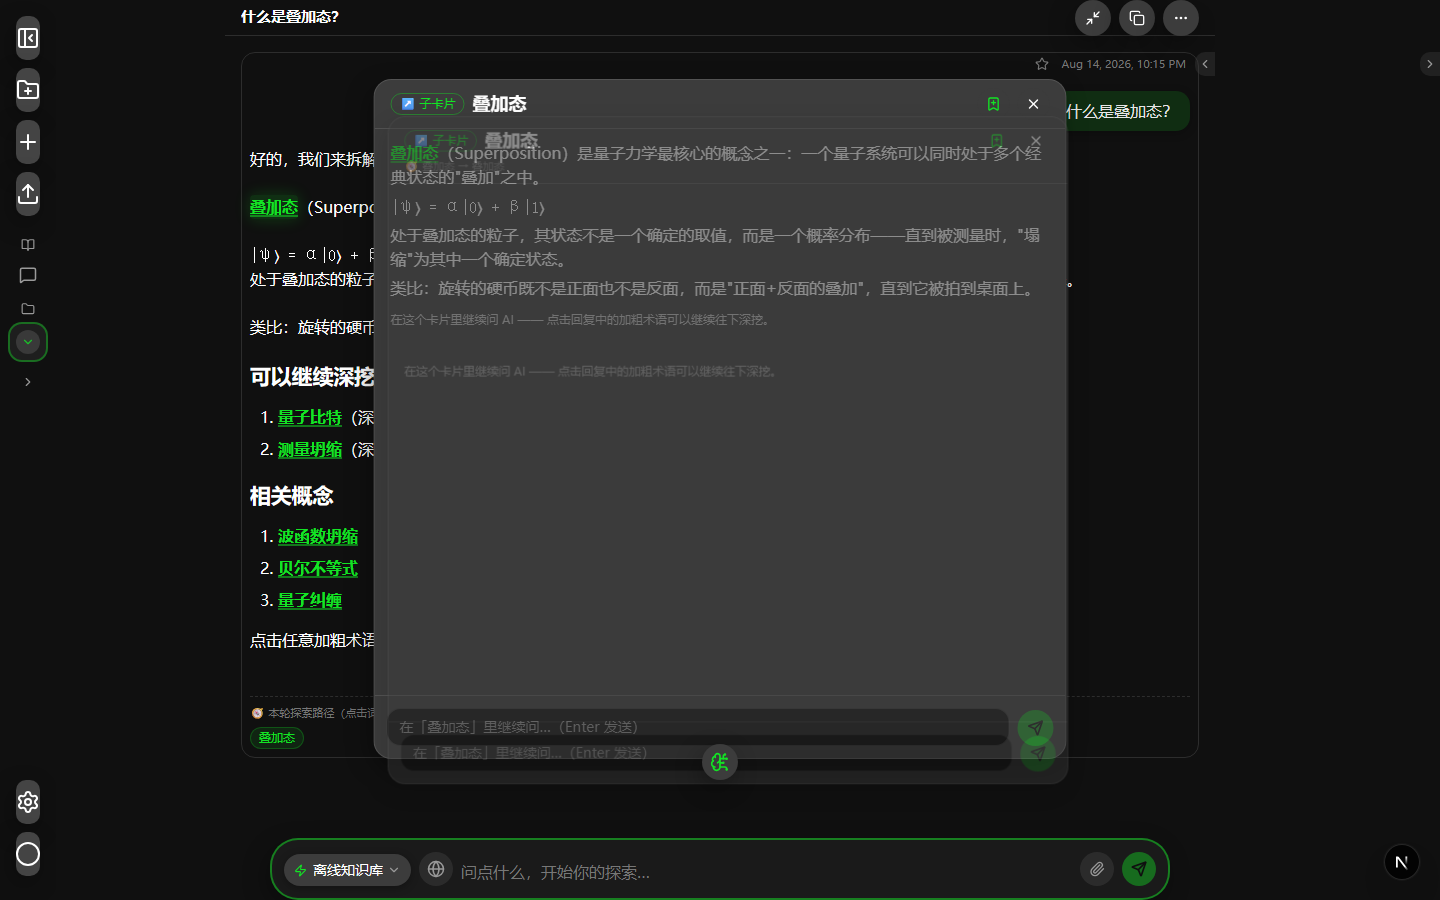
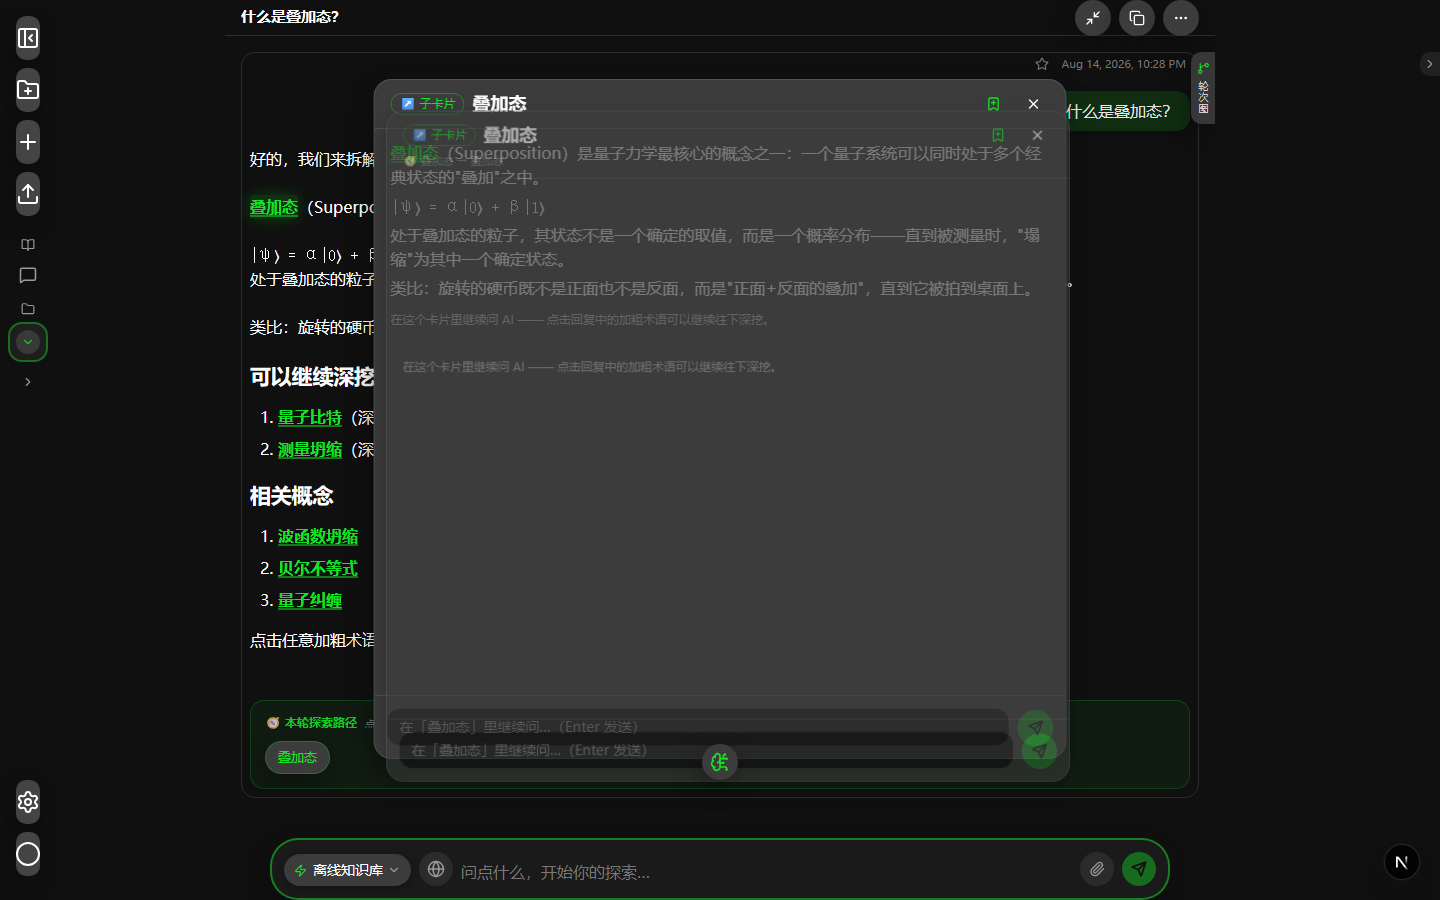
轮次导航升级为有向图（分支边+跳转+右键）、收藏区常驻可见、探索路径放大为独立卡片块

diff --git a/src/components/sites/ai-explore-poker-820d0558/chat-card.tsx b/src/components/sites/ai-explore-poker-820d0558/chat-card.tsx
@@ -11,6 +11,7 @@ import {
   BookmarkPlus,
   ChevronLeft,
   Copy,
+  GitBranch,
   HelpCircle,
   Loader2,
   Maximize2,
@@ -22,6 +23,7 @@ import {
   X,
 } from "lucide-react";
 import { useApp, streamOpenAICompatible } from "./app-context";
+import { TurnGraph } from "./turn-graph";
 import { findTerm, generateReply, GLOSSARY } from "@/lib/sites/ai-explore-poker-820d0558/mock";
 import type { Message, TermNode } from "@/types/sites/ai-explore-poker-820d0558";
 
@@ -646,7 +648,7 @@ export function ChatCard() {
         history.push({ role: m.role, content: m.content });
       }
     }
-    openBranchTurn(item.node.term, history.slice(-16));
+    openBranchTurn(item.node.term, history.slice(-16), item.sourceTurnId);
     setTermStack([]);
   };
 
@@ -929,23 +931,29 @@ export function ChatCard() {
 
                     {/* 本轮探索路径：点开的术语卡片按链条展示（被它们"分割"出深挖脉络） */}
                     {turn.explored && turn.explored.length > 0 && (
-                      <div className="explore-trail mt-1 flex flex-col gap-1.5 border-t border-dashed border-divider pt-2">
-                        <span className="text-[11px] text-text-quaternary select-none">
-                          🧭 本轮探索路径（点击词条可重新打开）
-                        </span>
+                      <div className="explore-trail mt-2 flex flex-col gap-2.5 rounded-xl border border-brand/20 bg-brand/[0.05] p-3.5">
+                        <div className="flex items-baseline gap-2">
+                          <span className="text-xs font-semibold text-brand/90 select-none">
+                            🧭 本轮探索路径
+                          </span>
+                          <span className="text-[10px] text-text-quaternary select-none">
+                            点击词条可重新打开卡片
+                          </span>
+                        </div>
                         {explorationChains(turn.explored).map((chain, ci) => (
-                          <div key={ci} className="flex flex-wrap items-center gap-x-1 gap-y-1.5">
+                          <div key={ci} className="flex flex-wrap items-center gap-x-2 gap-y-2">
                             {chain.map((e, ei) => (
                               <Fragment key={e.term}>
                                 {ei > 0 && (
-                                  <span className="select-none text-xs text-text-quaternary">→</span>
+                                  <span className="select-none text-sm text-text-tertiary">→</span>
                                 )}
                                 <button
                                   type="button"
                                   onClick={() => reopenFromTrail(e.term, turn.id)}
-                                  className="explore-chip inline-flex cursor-pointer items-center gap-1 rounded-full border border-brand/25 bg-brand/10 px-2 py-0.5 text-xs text-brand transition-colors hover:bg-brand/20"
+                                  title={KIND_BADGE[e.kind]}
+                                  className="explore-chip inline-flex cursor-pointer items-center gap-1.5 rounded-full border border-brand/30 bg-card-floating px-3 py-1.5 text-[13px] text-brand shadow-card transition-all hover:bg-brand/15 hover:scale-[1.03]"
                                 >
-                                  {ei > 0 && <span className="text-[10px]">{KIND_ICON[e.kind]}</span>}
+                                  {ei > 0 && <span className="text-xs">{KIND_ICON[e.kind]}</span>}
                                   {e.term}
                                 </button>
                               </Fragment>
@@ -1026,62 +1034,49 @@ export function ChatCard() {
               </>
             )}
 
-            {/* ---------- right turn-navigation rail ---------- */}
+            {/* ---------- right turn-graph navigation rail ---------- */}
             {turns.length > 0 && (
-              <div className="hidden sm:flex absolute right-0 top-[52px] bottom-0 w-[20px] z-[15] flex-col items-end">
+              <div className="hidden sm:flex absolute right-0 top-[52px] bottom-0 w-[30px] z-[15] flex-col items-end">
                 <button
                   type="button"
-                  className="relative z-20 w-5 h-6 rounded-l-lg bg-btn-std/40 hover:bg-btn-std flex items-center justify-center transition-colors"
+                  className={`relative z-20 flex flex-col items-center justify-center gap-1.5 rounded-l-lg bg-btn-std/90 hover:bg-btn-std shadow-card transition-colors ${
+                    navOpen ? "w-6 h-9" : "w-6 py-2.5"
+                  }`}
                   title={navOpen ? "收起轮次导航" : "轮次导航"}
                   aria-label={navOpen ? "收起轮次导航" : "轮次导航"}
                   onClick={() => setNavOpen((v) => !v)}
                 >
-                  <ChevronLeft
-                    size={14}
-                    className={`text-text-tertiary transition-transform duration-300 ${
-                      navOpen ? "rotate-180" : ""
-                    }`}
-                  />
+                  {navOpen ? (
+                    <ChevronLeft size={14} className="rotate-180 text-text-tertiary transition-transform" />
+                  ) : (
+                    <>
+                      <GitBranch size={13} className="text-brand" />
+                      <span className="select-none text-[10px] leading-none tracking-widest text-text-secondary [writing-mode:vertical-rl]">
+                        轮次图
+                      </span>
+                    </>
+                  )}
                 </button>
 
                 {navOpen && (
-                  <div className="absolute right-0 top-0 bottom-0 w-[240px] bg-card-floating border-l border-divider z-[10] flex flex-col">
-                    <div className="px-4 py-3 border-b border-divider">
-                      <span className="text-[12px] text-text-tertiary">轮次导航</span>
-                      <span className="block text-[10px] text-text-quaternary mt-0.5">
-                        点击跳转 · 右键切换已读/未读
+                  <div className="absolute right-0 top-0 bottom-0 w-[300px] bg-card-floating border-l border-divider z-[10] flex flex-col">
+                    <div className="px-4 py-3 border-b border-divider shrink-0">
+                      <div className="flex items-center gap-2">
+                        <GitBranch size={13} className="text-brand shrink-0" />
+                        <span className="text-[12px] text-text-tertiary">轮次导航图</span>
+                      </div>
+                      <span className="block text-[10px] text-text-quaternary mt-1">
+                        有向图 · 点击节点跳转 · 右键切换已读/未读
                       </span>
                     </div>
-                    <div className="flex-1 overflow-y-auto nav-scroll p-2 flex flex-col gap-1">
-                      {turns.map((turn) => (
-                        <button
-                          key={turn.id}
-                          type="button"
-                          className="text-left px-3 py-2 rounded-lg text-[13px] text-text-secondary hover:bg-item-std-hover bg-item-std transition-colors"
-                          onClick={() => jumpToTurn(turn.id)}
-                          onContextMenu={(e) => {
-                            e.preventDefault();
-                            setTurnUnread(turn.id, !turn.unread);
-                          }}
-                        >
-                          <span className="flex items-center gap-1.5 min-w-0">
-                            {turn.unread && (
-                              <span
-                                className="w-2 h-2 rounded-full bg-brand shrink-0 shadow-brandtw"
-                                aria-label="未读"
-                              />
-                            )}
-                            <span className="flex-1 min-w-0 truncate">{turn.title}</span>
-                            {turn.favorite && (
-                              <Star size={11} className="text-brand shrink-0" fill="currentColor" />
-                            )}
-                          </span>
-                          <span className="block text-[11px] text-text-quaternary mt-0.5">
-                            {fmtTs(turn.createdAt)}
-                          </span>
-                        </button>
-                      ))}
-                    </div>
+                    <TurnGraph
+                      turns={turns}
+                      onJump={jumpToTurn}
+                      onToggleUnread={(id) => {
+                        const t = turns.find((x) => x.id === id);
+                        if (t) setTurnUnread(id, !t.unread);
+                      }}
+                    />
                   </div>
                 )}
               </div>

diff --git a/src/components/sites/ai-explore-poker-820d0558/turn-graph.tsx b/src/components/sites/ai-explore-poker-820d0558/turn-graph.tsx
@@ -1,0 +1,141 @@
+"use client";
+
+/**
+ * Explore — TurnGraph（轮次导航有向图）
+ * 每个项目里的对话在右侧导航图中呈现为有向图：
+ *  - 行 = 轮次时间序；列 = 分支深度（父链长度）；
+ *  - 边 = parentTurnId（分支来源）?? 顺序上一轮 → 有向箭头；
+ *  - 点击节点跳转到对应轮次；右键切换已读/未读；绿点 = 未读，⭐ = 已收藏。
+ */
+import { useMemo } from "react";
+import type { Turn } from "@/types/sites/ai-explore-poker-820d0558";
+
+interface TurnGraphProps {
+  turns: Turn[];
+  onJump(id: string): void;
+  onToggleUnread(id: string): void;
+}
+
+const ROW_H = 58;
+const X_BASE = 36;
+const X_STEP = 56;
+
+export function TurnGraph({ turns, onJump, onToggleUnread }: TurnGraphProps) {
+  const { nodes, edges, height, width } = useMemo(() => {
+    const byId = new Map(turns.map((t) => [t.id, t]));
+    const depthCache = new Map<string, number>();
+    const getDepth = (t: Turn): number => {
+      const hit = depthCache.get(t.id);
+      if (hit !== undefined) return hit;
+      const parent = t.parentTurnId ? byId.get(t.parentTurnId) : undefined;
+      const d = parent ? getDepth(parent) + 1 : 0;
+      depthCache.set(t.id, d);
+      return d;
+    };
+    turns.forEach(getDepth);
+
+    const nodes = turns.map((t, i) => ({ turn: t, i, d: getDepth(t) }));
+    const edges = turns
+      .map((t, i) => {
+        const parent = t.parentTurnId ? byId.get(t.parentTurnId) : undefined;
+        const from = parent?.id ?? (i > 0 ? turns[i - 1].id : undefined);
+        return from ? { from, to: t.id } : null;
+      })
+      .filter((e): e is { from: string; to: string } => e !== null);
+
+    const maxDepth = nodes.reduce((m, n) => Math.max(m, n.d), 0);
+    return {
+      nodes,
+      edges,
+      height: Math.max(nodes.length * ROW_H + 16, 60),
+      width: Math.max(230, X_BASE + maxDepth * X_STEP + 170),
+    };
+  }, [turns]);
+
+  const pos = useMemo(() => {
+    const m = new Map<string, { x: number; y: number }>();
+    for (const n of nodes) {
+      m.set(n.turn.id, { x: X_BASE + n.d * X_STEP, y: n.i * ROW_H + 28 });
+    }
+    return m;
+  }, [nodes]);
+
+  const shortTitle = (t: string) => (t.length > 10 ? t.slice(0, 10) + "…" : t);
+
+  return (
+    <div className="w-full overflow-x-auto overflow-y-auto nav-scroll px-2 py-2">
+      <svg width={width} height={height} className="block mx-auto" role="img" aria-label="轮次导航图">
+        <defs>
+          <marker
+            id="turn-arrow"
+            markerWidth="9"
+            markerHeight="9"
+            refX="7"
+            refY="3"
+            orient="auto"
+            markerUnits="userSpaceOnUse"
+          >
+            <path d="M0,0 L7,3 L0,6 z" fill="#13e425" opacity="0.75" />
+          </marker>
+        </defs>
+
+        {/* 有向边：分支 → 曲线，顺序 → 近直线 */}
+        {edges.map((e, i) => {
+          const a = pos.get(e.from);
+          const b = pos.get(e.to);
+          if (!a || !b) return null;
+          const mx = (a.x + b.x) / 2;
+          const d = `M ${a.x + 11} ${a.y} C ${mx} ${a.y}, ${mx} ${b.y}, ${b.x - 11} ${b.y}`;
+          return (
+            <path
+              key={i}
+              d={d}
+              fill="none"
+              stroke="#13e425"
+              strokeOpacity="0.55"
+              strokeWidth="1.5"
+              markerEnd="url(#turn-arrow)"
+            />
+          );
+        })}
+
+        {nodes.map((n) => {
+          const p = pos.get(n.turn.id)!;
+          const label = shortTitle(n.turn.title);
+          return (
+            <g
+              key={n.turn.id}
+              data-turn-node={n.turn.id}
+              transform={`translate(${p.x}, ${p.y})`}
+              className="cursor-pointer transition-opacity hover:opacity-75"
+              onClick={() => onJump(n.turn.id)}
+              onContextMenu={(e) => {
+                e.preventDefault();
+                onToggleUnread(n.turn.id);
+              }}
+            >
+              {/* 透明点击热区 */}
+              <rect x={-14} y={-ROW_H / 2 + 6} width={width - p.x + 14} height={ROW_H - 12} fill="transparent" />
+              <circle r="9" fill="rgba(19,228,37,0.12)" stroke="#13e425" strokeWidth="1.5" />
+              {n.turn.unread && <circle r="3.5" fill="#13e425" aria-label="未读" />}
+              <text
+                x={17}
+                y={4}
+                fontSize="12"
+                fill="rgba(226,232,240,0.85)"
+                style={{ userSelect: "none" }}
+              >
+                {label}
+              </text>
+              {n.turn.favorite && (
+                <text x={17 + label.length * 12 + 6} y={5} fontSize="11" style={{ userSelect: "none" }}>
+                  ⭐
+                </text>
+              )}
+            </g>
+          );
+        })}
+      </svg>
+    </div>
+  );
+}

diff --git a/src/components/sites/ai-explore-poker-820d0558/app-context.tsx b/src/components/sites/ai-explore-poker-820d0558/app-context.tsx
@@ -150,8 +150,9 @@ export interface AppState {
   activeTurn: Turn | null;
   sendMessage(text: string): void;
   busy: boolean;
-  /** 分支卡片 → 在当前项目开新 turn（继承上游卡片主题与分支点之前的对话历史，走双通道） */
-  openBranchTurn(title: string, history?: { role: string; content: string }[]): void;
+  /** 分支卡片 → 在当前项目开新 turn（继承上游卡片主题与分支点之前的对话历史，走双通道）；
+      sourceTurnId = 发起分支的轮次（有向图边 + parentTurnId） */
+  openBranchTurn(title: string, history?: { role: string; content: string }[], sourceTurnId?: string): void;
   /** 本地档案（"登录"） */
   profile: Profile | null;
   setProfile(p: Profile | null): void;
@@ -798,7 +799,7 @@ export function AppProvider({ children }: { children: ReactNode }) {
   /** 分支卡片：以术语开新 turn，继承上游卡片主题与分支点之前的对话历史。
       AI 回复走 deliverReply 双通道（BYOK 真实 API / 离线知识库），不再静态贴摘要。 */
   const openBranchTurn = useCallback(
-    (title: string, history: { role: string; content: string }[] = []) => {
+    (title: string, history: { role: string; content: string }[] = [], sourceTurnId?: string) => {
       let targetId = activeProjectId;
       if (!targetId) {
         const p: ChatProject = { ...makeDemoProject(), id: uid(), title: "Untitled" };
@@ -806,6 +807,21 @@ export function AppProvider({ children }: { children: ReactNode }) {
         targetId = p.id;
       }
       const turnId = appendTurn(targetId, title, `继续深挖：${title}`);
+      // 分支来源（有向图边）：新 turn 的 parentTurnId 指向发起分支的轮次。
+      if (sourceTurnId) {
+        setProjects((list) =>
+          list.map((p) =>
+            p.id === targetId
+              ? {
+                  ...p,
+                  turns: p.turns.map((t) =>
+                    t.id === turnId ? { ...t, parentTurnId: sourceTurnId } : t
+                  ),
+                }
+              : p
+          )
+        );
+      }
       // 新 turn 的探索路径从该分支术语起算（继承上下文另起炉灶）。
       recordExploration(turnId, title, "branch", null);
       setMindscapeOpen(false);

diff --git a/src/components/sites/ai-explore-poker-820d0558/sidebar.tsx b/src/components/sites/ai-explore-poker-820d0558/sidebar.tsx
@@ -451,17 +451,24 @@ export function Sidebar() {
           )}
         </div>
 
-        {/* 收藏区：跨项目收藏的轮次 + 智能摘要 */}
-        {!collapsed && favTurns.length > 0 && (
+        {/* 收藏区：跨项目收藏的轮次 + 智能摘要（常驻可见） */}
+        {!collapsed && (
           <div className="mt-2">
             <div className="flex items-center gap-2 py-1.5 px-1">
               <Star size={14} className="text-text-tertiary shrink-0" />
               <span className="flex-1 text-left text-sm text-text-tertiary font-medium truncate">
                 收藏
               </span>
-              <span className="text-[10px] text-text-quaternary">{favTurns.length}</span>
+              {favTurns.length > 0 && (
+                <span className="text-[10px] text-text-quaternary">{favTurns.length}</span>
+              )}
             </div>
-            {favTurns.map(({ project, turn }) => (
+            {favTurns.length === 0 ? (
+              <p className="px-1 pb-1 text-[11px] leading-5 text-text-quaternary">
+                在轮次右上角点 ⭐ 收藏，这里会列出可快速跳转的对话，还能生成智能摘要。
+              </p>
+            ) : (
+              favTurns.map(({ project, turn }) => (
               <div key={turn.id} className="mb-1">
                 <div
                   role="button"
@@ -520,7 +527,8 @@ export function Sidebar() {
                   </div>
                 )}
               </div>
-            ))}
+              ))
+            )}
           </div>
         )}
 

diff --git a/src/types/sites/ai-explore-poker-820d0558.ts b/src/types/sites/ai-explore-poker-820d0558.ts
@@ -67,6 +67,8 @@ export interface Turn {
   favorite?: boolean;
   /** 未读（新回复到达时未在视野内）；轮次导航节点圆点 + 右键手动切换 */
   unread?: boolean;
+  /** 分支来源轮次 id（另起炉灶的上游）；缺省 = 顺序上一轮。用于轮次有向图 */
+  parentTurnId?: string | null;
   /** 本轮对话中点击过的术语卡片（探索路径），按点击顺序；
       parentTerm = 打开这张卡片时所在的父卡片术语（null = 从主对话点开） */
   explored?: { term: string; kind: TermKind; at: number; parentTerm: string | null }[];
